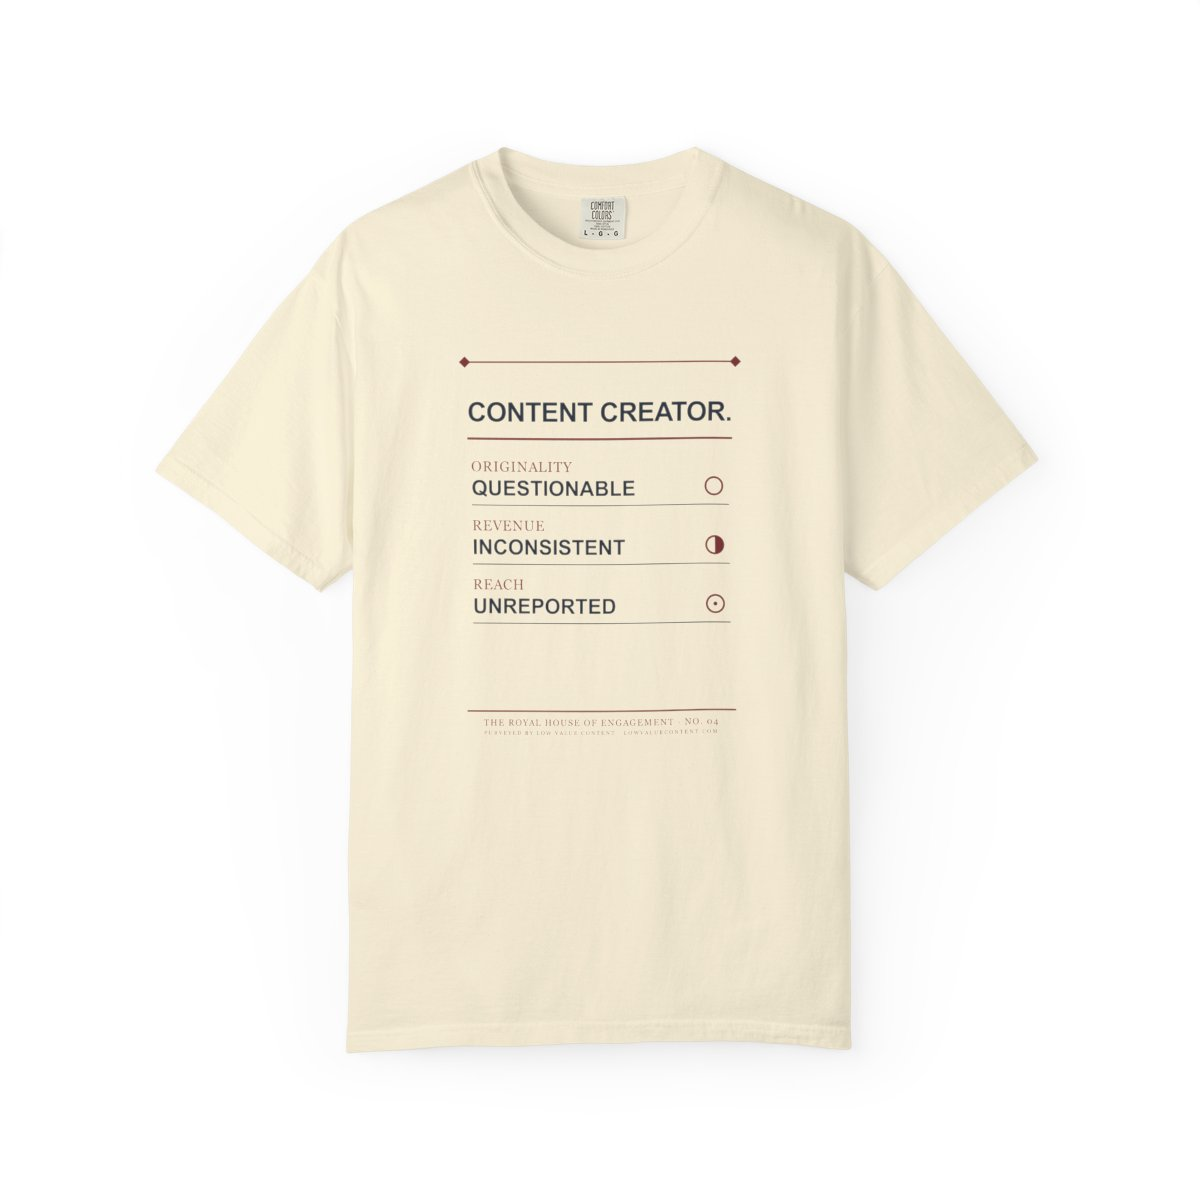
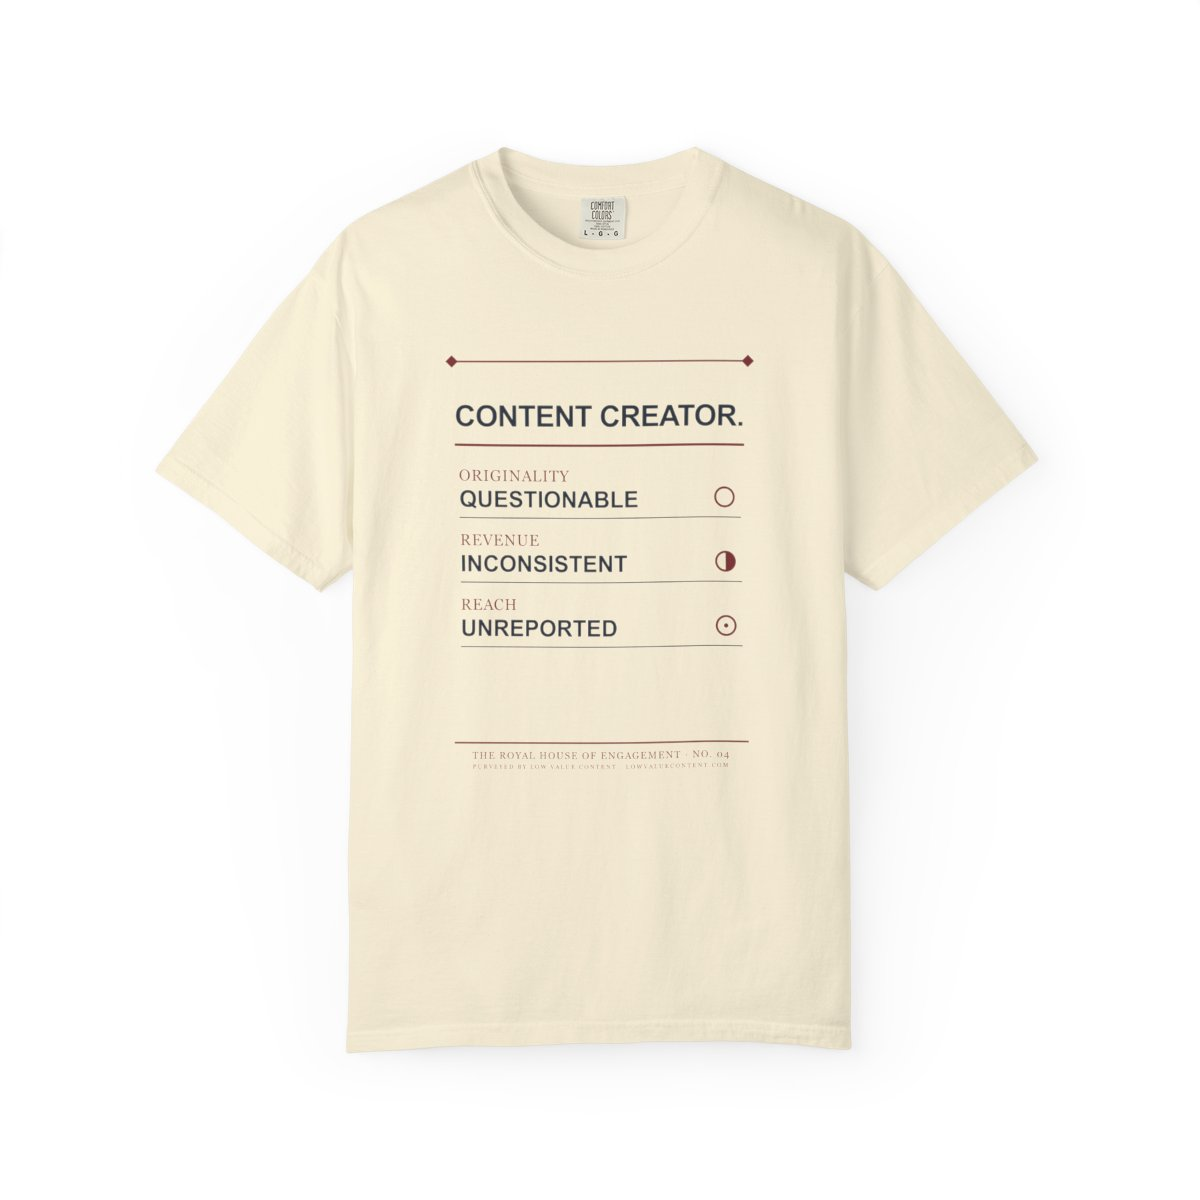
Restore the six front placements to scale 0.82
The 0.75 trial printed the thinnest rules at 0.028 in (under the 0.03 in
target) and shrank the maker's line to about 7.4 pt capitals. The six Printify
drafts are back at x 0.50, y 0.42, scale 0.82 (about 10.1 x 12.1 in), read back
and verified at $36; no publish or order. The regenerated mockups match PR
#68's 0.82 mockups pixel for pixel, so those exact files are restored.

The placement script targets 0.82 and accepts 0.945, 0.82 and 0.75 as valid
starting points. Docs now give the maker's line size in terms that do not
depend on the scale.

diff --git a/tools/printify/update_launch_six_art.py b/tools/printify/update_launch_six_art.py
@@ -17,7 +17,7 @@ from PIL import Image
 
 ROOT = Path(__file__).resolve().parents[2]
 SHOP = 29342324
-IMAGE_X, IMAGE_Y, IMAGE_SCALE, IMAGE_ANGLE = 0.5, 0.39, 0.75, 0
+IMAGE_X, IMAGE_Y, IMAGE_SCALE, IMAGE_ANGLE = 0.5, 0.42, 0.82, 0
 RECORD = ROOT / "tools/printify/launch-six-products.json"
 ART = ROOT / "production/print-files/launch-six-redesign-candidate-v1"
 LOG = ROOT / "production/qa/printify-redesign-update-2026-11-23.json"
@@ -66,6 +66,7 @@ def check_product(key, product, entry, allowed_ids):
     if (image["x"], image["y"], image["scale"], image["angle"]) not in {
         (0.5, 0.5, 0.9452, 0),
         (0.5, 0.42, 0.82, 0),
+        (0.5, 0.39, 0.75, 0),   # the shorter placement set on November 23; a valid starting point
         (IMAGE_X, IMAGE_Y, IMAGE_SCALE, IMAGE_ANGLE),
     }:
         raise RuntimeError(f"{key}: placement changed")

diff --git a/docs/product/holiday-launch-plan.md b/docs/product/holiday-launch-plan.md
@@ -76,4 +76,5 @@ Back prints, sleeve seals, garment QR codes, hoodies, Nos. 07 to 10, the Wave 2 
 | Nov 11, 2026 | Storefront rebuilt for the six; six Printify drafts created and the old test product deleted; garment colors locked to real blank names; shop-page concept studies removed; pricing analysis written (recommends $36); plan rewritten |
 | Nov 14, 2026 (tax) | Mark registered Nelson Grey LLC for Illinois sales tax. Checkout now sets explicit Stripe tax codes and exclusive tax behavior (the Stripe account is shared with other products); collection still off until the Illinois registration is added in Stripe and `STRIPE_AUTOMATIC_TAX=true`. Printify resale certificate to follow |
 | Nov 20, 2026 (environments) | Mark: the dev and staging sign-in gate now matches the storefront (navy header and footer, ivory panel, gold rules, inside the 1280px column). Stripe tax codes merged and promoted to staging; staging sandbox has its Illinois registration (test calculation: 9% on the shirt, shipping exempt). Staging backend still needs a redeploy and prod needs its own setup; see [go-live-runbook.md](go-live-runbook.md) |
-| Nov 23, 2026 (maker's line) | Mark: put Low Value Content and the URL on the shirt. A back print adds $5.84 per shirt on Printify Choice (measured; Printful +$3.85, SwiftPOD +$6.82, Choice still cheapest) and the Heraldic System forbids a second print location on launch garments, so each front design now carries a second line under the House line: `PURVEYED BY LOW VALUE CONTENT · LOWVALUECONTENT.COM` in the same ink, 16 units (about 13 pt), same width as the House line. Nothing else in the art moved (verified pixel by pixel). All six Printify drafts and the storefront art and mockups updated; no publish or order. Back-mark logo candidates (seal, hallmark, plaque) are saved locally in `design/back-mark/` for a later premium edition, hang tag or packaging |
+| Nov 23, 2026 (maker's line) | Mark: put Low Value Content and the URL on the shirt. A back print adds $5.84 per shirt on Printify Choice (measured; Printful +$3.85, SwiftPOD +$6.82, Choice still cheapest) and the Heraldic System forbids a second print location on launch garments, so each front design now carries a second line under the House line: `PURVEYED BY LOW VALUE CONTENT · LOWVALUECONTENT.COM` in the same ink, 16 of the design's 1000 units (about 8 pt capitals at the 0.82 placement), same width as the House line. Nothing else in the art moved (verified pixel by pixel). All six Printify drafts and the storefront art and mockups updated; no publish or order. Back-mark logo candidates (seal, hallmark, plaque) are saved locally in `design/back-mark/` for a later premium edition, hang tag or packaging |
+| Nov 23, 2026 (placement) | Mark: the artwork was shortened twice on the Printify drafts (scale 0.945 to 0.82 to 0.75). Restored to **x 0.50, y 0.42, scale 0.82** (about 10.1 by 12.1 in): the 0.75 trial printed the thinnest rules at 0.028 in, under the 0.03 in target, and shrank the maker's line to about 7.4 pt capitals. All six drafts read back at 0.82 and $36; the mockups match the 0.82 mockups already in git history pixel for pixel; no publish or order. The placement script now treats 0.945, 0.82 and 0.75 as valid starting points and targets 0.82 |

diff --git a/docs/product/blank-and-print-spec.md b/docs/product/blank-and-print-spec.md
@@ -10,13 +10,13 @@ Status: updated November 11, 2026. The **Verified facts** section below supersed
 | Provider | Printify Choice (provider 99). Ten other providers carry the blank; Printful (410) and SwiftPOD (39) have the same three colors, with smaller print areas (3425 x 3882 and 3461 x 3955 px) |
 | Colors we use | **Ivory**, **True Navy**, **Brick**, all in stock for S to 3XL. The catalog also has "Navy" (renders as a grey-blue) and "Crimson" (renders as a coral red), which we rejected. No Comfort Colors shade is called oxblood; Brick is the nearest we tested, so it is provisional until a sample |
 | Sizes sold | S, M, L, XL, 2XL, 3XL (4XL exists on some colors; not used) |
-| Print method | DTG. Front print area 3703 x 4200 px. The latest November 23 draft placement uses scale 0.75, x 0.50, y 0.39. The 4500 x 5400 image occupies about 9.3 in wide by 11.1 in tall, subject to Printify's actual print rendering. The previous scale 0.82 was about 10.1 by 12.1 in. |
+| Print method | DTG. Front print area 3703 x 4200 px. The November 23 draft placement is scale 0.82, x 0.50, y 0.42: the 4500 x 5400 image occupies about 10.1 in wide by 12.1 in tall, subject to Printify's actual print rendering. The first approved placement, scale 0.945, was about 11.7 by 14 in. A trial at scale 0.75 (about 9.3 by 11.1 in) was reverted the same day because it put the thinnest rules at 0.028 in. |
 | Production cost | S to XL **$12.65**, 2XL $13.89, 3XL $16.03 |
 | US shipping (Printify's quote) | $5.35 first shirt, $2.40 each additional shirt |
 | Care | Machine wash cold (max 30 °C), do not bleach, tumble dry low, iron on low heat, do not dry clean |
 | Handling time | The API reports 10 days for every provider, which looks like a default. Real production time is unverified |
 
-**Print-quality flag.** The November 11 frame note below applies to the earlier art. At scale 0.75, a 3 px rule in the redesign's 1000-unit source becomes about 0.028 in, slightly below the local 0.03 in target. The small serif text, including the maker line, needs a physical sample for legibility; this placement has only been reviewed in Printify mockups.
+**Print-quality flag.** The November 11 frame note below applies to the earlier art. At scale 0.82, a 3 px rule in the redesign's 1000-unit source becomes about 0.030 in, exactly on the local 0.03 in target, so there is no margin: do not shrink the placement further without thickening the rules in the art. The small serif text, including the maker's line (about 8 pt capitals at this scale), needs a physical sample for legibility; this placement has only been reviewed in Printify mockups.
 
 **Interim mockups.** Printify renders mockups for every color we enabled. They are what the site can show until sample photography exists.
 

diff --git a/docs/product/launch-readiness.md b/docs/product/launch-readiness.md
@@ -21,14 +21,14 @@ State key: **Done** (built and checked), **Ready** (I can do it now without a de
 | Garment colors locked to real blank names | Done | Manifest `blankColor` plus checker; Brick provisional |
 | Confirm Brick and True Navy on a real shirt | Blocked | Needs samples |
 | Confirm print quality, thin rules and gold on dark cotton | Blocked | Needs samples |
-| Frame and small-type quality on the redesign | Blocked | At the latest shorter placement, the thinnest rules are about 0.028 in, slightly below the local 0.03 in target. Confirm edge quality and small serif text, especially the maker line, on a physical sample. |
+| Frame and small-type quality on the redesign | Blocked | At the 0.82 placement the thinnest rules are about 0.030 in, exactly on the local 0.03 in target with no margin. Confirm edge quality and small serif text, especially the maker's line (about 8 pt capitals), on a physical sample. |
 | Trademark knockout searches for the six sayings and the brand | Needs outside | Cannot be done from here; search the USPTO and common marketplaces; the site must not claim clearance |
 
 ## 2. Printify
 
 | Item | State | Notes |
 |---|---|---|
-| Six draft products (Ivory, True Navy, Brick; S to 3XL; placed art) | Done | Existing drafts received the redesign and maker's line November 23, then were shortened again to x 0.50, y 0.39, scale 0.75. Each read-back verified image IDs, price, variants and placement. Logs: `production/qa/printify-redesign-update-2026-11-23-first-pass.json`, `production/qa/printify-redesign-update-2026-11-23.json`, `production/qa/printify-placement-update-2026-11-23.json`, and `production/qa/printify-placement-update-2026-11-23-v2.json`. |
+| Six draft products (Ivory, True Navy, Brick; S to 3XL; placed art) | Done | Existing drafts received the redesign and maker's line November 23, then shortened to x 0.50, y 0.42, scale 0.82, shortened further to y 0.39, scale 0.75, and restored to x 0.50, y 0.42, scale 0.82 the same day (at 0.75 the thinnest rules printed at 0.028 in, under the 0.03 in target). Each read-back verified image IDs, price, variants and placement. Logs: `production/qa/printify-redesign-update-2026-11-23-first-pass.json`, `production/qa/printify-redesign-update-2026-11-23.json`, `production/qa/printify-placement-update-2026-11-23.json`, and `production/qa/printify-placement-update-2026-11-23-v2.json`. |
 | Old test product removed | Done | Deleted November 11 |
 | Prices on the Printify products | Done | Set to $36 on November 11 |
 | Confirm real production time and the holiday cutoff | Needs outside | Ask Printify support or read the provider page; the 10-day API field looks like a default |

diff --git a/docs/brand/LOW_VALUE_CONTENT_GUIDE.md b/docs/brand/LOW_VALUE_CONTENT_GUIDE.md
@@ -60,7 +60,7 @@ The Royal House is the visible brand and Low Value Content is the label on it. T
 
 - **Garments:** the founding collection ships three Comfort Colors 1717 colours, named exactly as in the manifest: Ivory, True Navy and Brick (Brick is provisional until sampled). Never show a customer a colour we do not ship.
 - **Inks (two-ink designs):** navy, oxblood and antique gold. No editorial black, lime or notification red.
-- **Shared frame (Nos. 01–06):** every two-ink design carries the House frame (double rule, diamond corners) and the imprint line "The Royal House of Engagement · No. NN", with the maker's line "Purveyed by Low Value Content · lowvaluecontent.com" beneath it in the same ink (16 units, about 13 pt, the same width as the House line; part of the one front print, not a second print location). Headline typography may stay in its own joke register (typewriter, auction, report); small text is set in the House serif. Sources are `design/launch-six-redesign-review/` (local-only): run `build_redesigns.py` for the editable SVGs, then `build_print_candidate.py` for the outlined print masters and 4500 × 5400 PNGs in `production/print-files/launch-six-redesign-candidate-v1/`. The site's display PNGs (1200 × 1440) and WebPs (800 × 960, lossless) are Lanczos resizes of those PNGs.
+- **Shared frame (Nos. 01–06):** every two-ink design carries the House frame (double rule, diamond corners) and the imprint line "The Royal House of Engagement · No. NN", with the maker's line "Purveyed by Low Value Content · lowvaluecontent.com" beneath it in the same ink (16 of the design's 1000 units, about 8 pt capitals at the 0.82 placement, the same width as the House line; part of the one front print, not a second print location). Headline typography may stay in its own joke register (typewriter, auction, report); small text is set in the House serif. Sources are `design/launch-six-redesign-review/` (local-only): run `build_redesigns.py` for the editable SVGs, then `build_print_candidate.py` for the outlined print masters and 4500 × 5400 PNGs in `production/print-files/launch-six-redesign-candidate-v1/`. The site's display PNGs (1200 × 1440) and WebPs (800 × 960, lossless) are Lanczos resizes of those PNGs.
 - **Product pages show shoppers:** name, price, art, one line of description, collection, garment, and an archive note for the lore. Production status, print gates, realm intensity and similar workshop fields live in `docs/`, not on the site.
 
 ### Two registers
